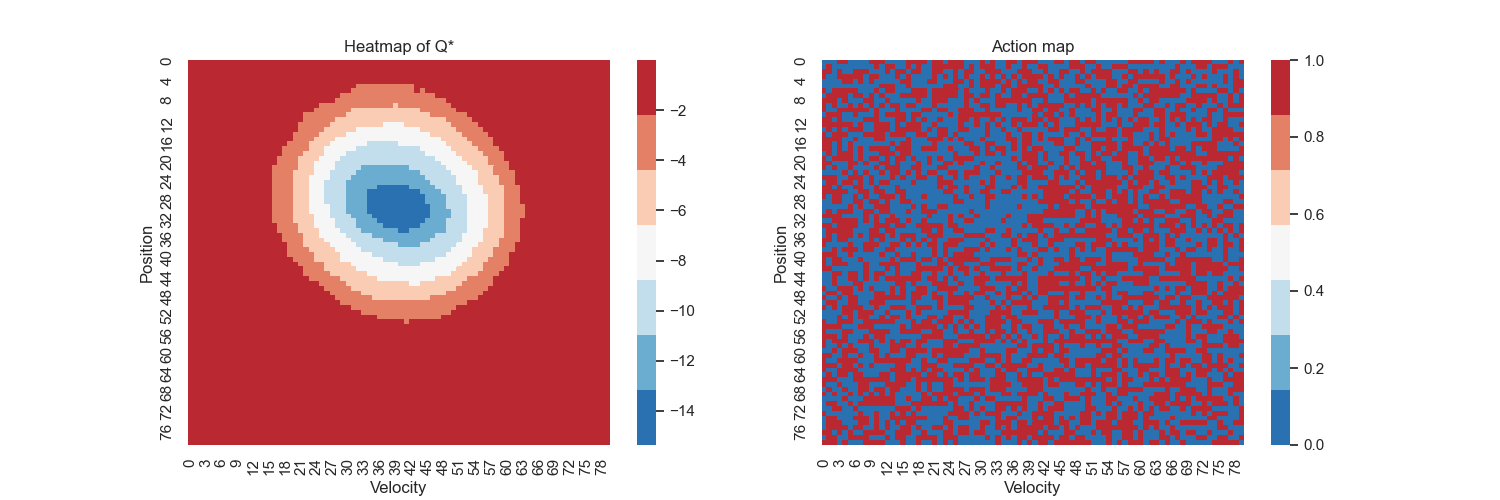
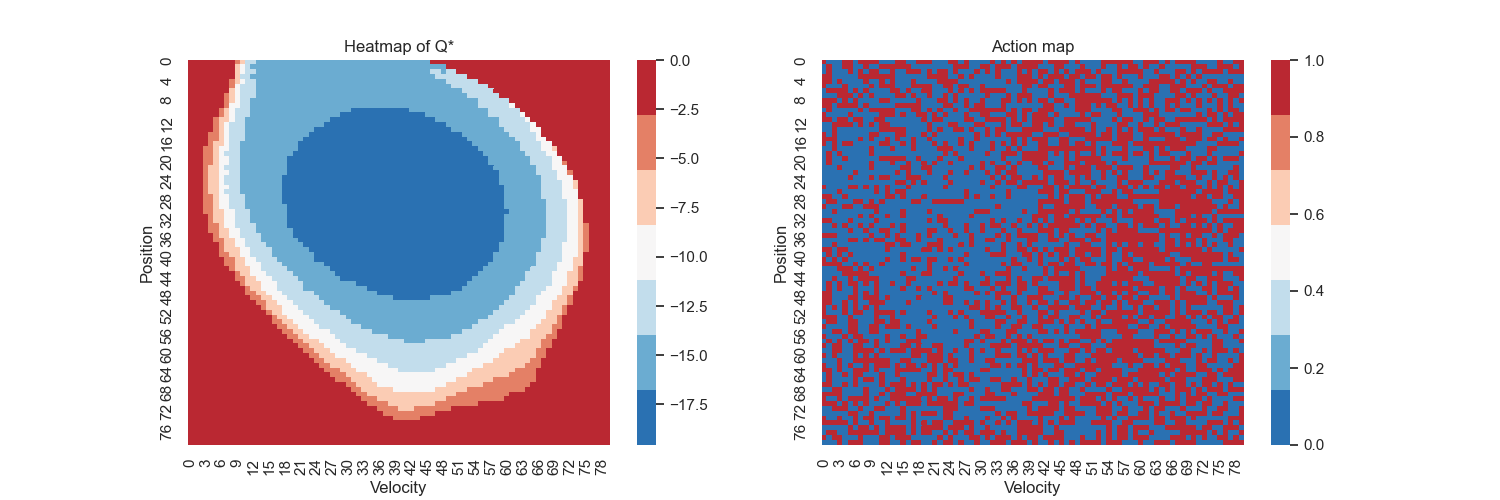
real figures

diff --git a/main.py b/main.py
@@ -49,6 +49,7 @@ def heatmap(p_domain, v_domain, Q, i):
     plt.title('Action map')
     plt.xlabel('Velocity')
     plt.ylabel('Position')
+    print(epsilon[i])
     path = ('Figures\\Fig_' + str(epsilon[i]) + ".png")
     plt.savefig(path)
     # plt.show()
@@ -137,7 +138,8 @@ def run(q_table_size, episodes, eps, i):
 if __name__ == '__main__':
     np.random.seed(42)
     q_table_size = 80
-    episodes = 2500
-    epsilon = [0.01, 0.1, 0.5, 0.9, 9]
-    for i in range(5):
+    episodes = 25000
+    epsilon = [0.01, 0.1, 0.5, 0.9, 9, 30]
+
+    for i in range(len(epsilon)):
         run(q_table_size, episodes, epsilon[i], i)
